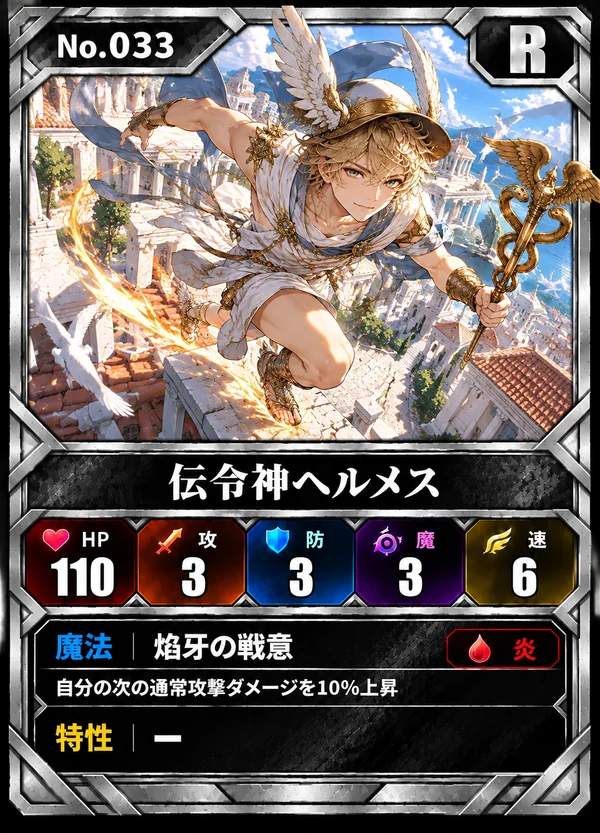
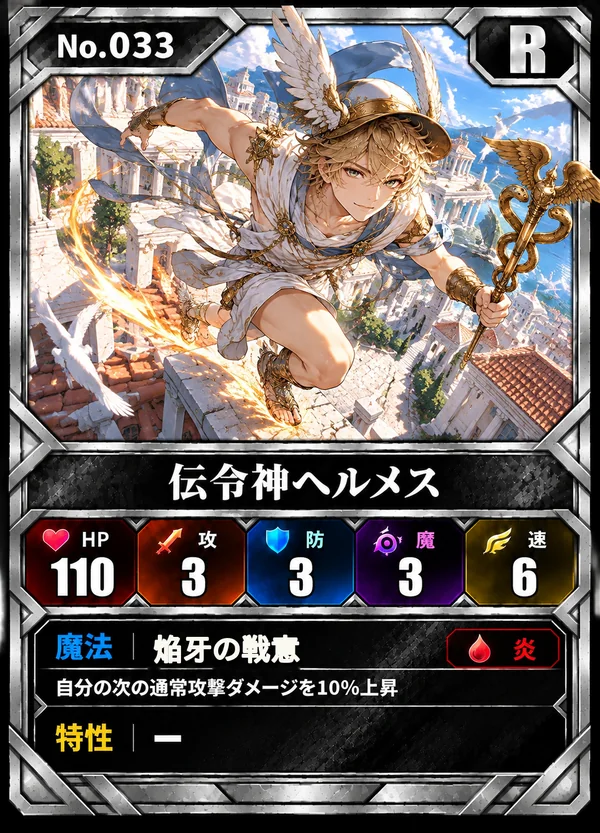
MYTHCLASH: No.033 伝令神ヘルメス をゲームに入れる。魔法の名前の「焔」を正しい形に書き直した(企画者)
Claude-Session: https://claude.ai/code/session_01MXithgTc5umkveoyZShZHQ

Changed region(s): [[0.24, 0.7491, 0.51, 0.8115]]

diff --git a/src/ui/mythCardArt.ts b/src/ui/mythCardArt.ts
@@ -37,7 +37,7 @@ export const ELEMENT_COLORS: Record<Element, string> = {
  * 企画者のカードの絵(カード全体。企画者決定 2026-10-27: 文字まで入った絵をそのまま使う)。絵があるカードの番号。
  * 絵は design/mythclash/make_cards.py で作る(public/assets/mythclash/cards/NNN.webp・600×833)。届いたら番号を足す
  */
-export const CARD_ART_IDS: readonly number[] = [1, 2, 3, 4, 5, 6, 7, 8, 9, 10, 11, 12, 13, 14, 15, 16, 17, 18, 19, 20, 21, 22, 23, 24, 25, 26, 27, 28, 29, 30, 31, 32, 101];
+export const CARD_ART_IDS: readonly number[] = [1, 2, 3, 4, 5, 6, 7, 8, 9, 10, 11, 12, 13, 14, 15, 16, 17, 18, 19, 20, 21, 22, 23, 24, 25, 26, 27, 28, 29, 30, 31, 32, 33, 101];
 export const cardArtKey = (id: number) => `myth:cardart:${id}`;
 export const cardArtFile = (id: number) => `assets/mythclash/cards/${String(id).padStart(3, '0')}.webp`;
 const cardArt = new Map<number, CanvasImageSource>();

diff --git a/design/mythclash/make_cards.py b/design/mythclash/make_cards.py
@@ -34,6 +34,8 @@ FIXES = {
     # No.003 は 企画者が「毒りんごの女王」と書いた絵に差しかえた(2026-10-27)。2026-10-28 にまた新しい絵に差しかえ(前の絵は cards/unused/)
     # 毒は50%の確率(コイントス)で付くので、説明に「(50%)」を足す(企画者「足して」2026-10-27。これからのカードも同じ)。新しい絵の「毒を付与」の右に
     3: [(1040, 1220, 1041, 1221, '(50%)', 248, 1232, 37, 'lm', 1)],
+    # 魔法の名前の「焔」が、右下が「臼」の形(焰)で描かれていた → 「旧」の形の「焔」で書き直す(企画者「魔法の漢字が違うから直して」2026-10-29)
+    33: [(262, 1120, 530, 1186, '焔牙の戦意', 272, 1151, 52, 'lm', 2)],
     # No.101 Mr.CLASH(特別なカード): 30%の弱化も50%の確率で効くので「(50%)」を足す
     101: [(1040, 1220, 1041, 1221, '(50%)', 684, 1161, 36, 'lm', 0)],
 }

diff --git a/docs/MYTHCLASH.md b/docs/MYTHCLASH.md
@@ -186,7 +186,7 @@
   - No.007 黄金髪の囚人：表どおり（特性の名前と説明も描いてあった）。構図は Claude の案（上から見下ろす全身）。
 - 絵がかぶらないように、カードごとに「写す広さ・カメラの高さ・動き・光の方向・主な色」の2〜3個を変えた構図の文を Claude が作る（企画者 2026-10-28）。
   - No.008 菓子牢の魔女：表どおり（(50%) も描いてあった）。
-- 届いたカード：No.001〜032・101。
+- 届いたカード：No.001〜033・101。
 - 2026-10-29：これから描くSRのカードは、わくを銀色にする（企画者）。前に届いたSR（No.001・014・016・021・028）も銀のわくの絵に差しかえた（金のわくの絵は unused/）
 
 ### 名前を BLOOD TOWER に（2026-10-27）【確定】
